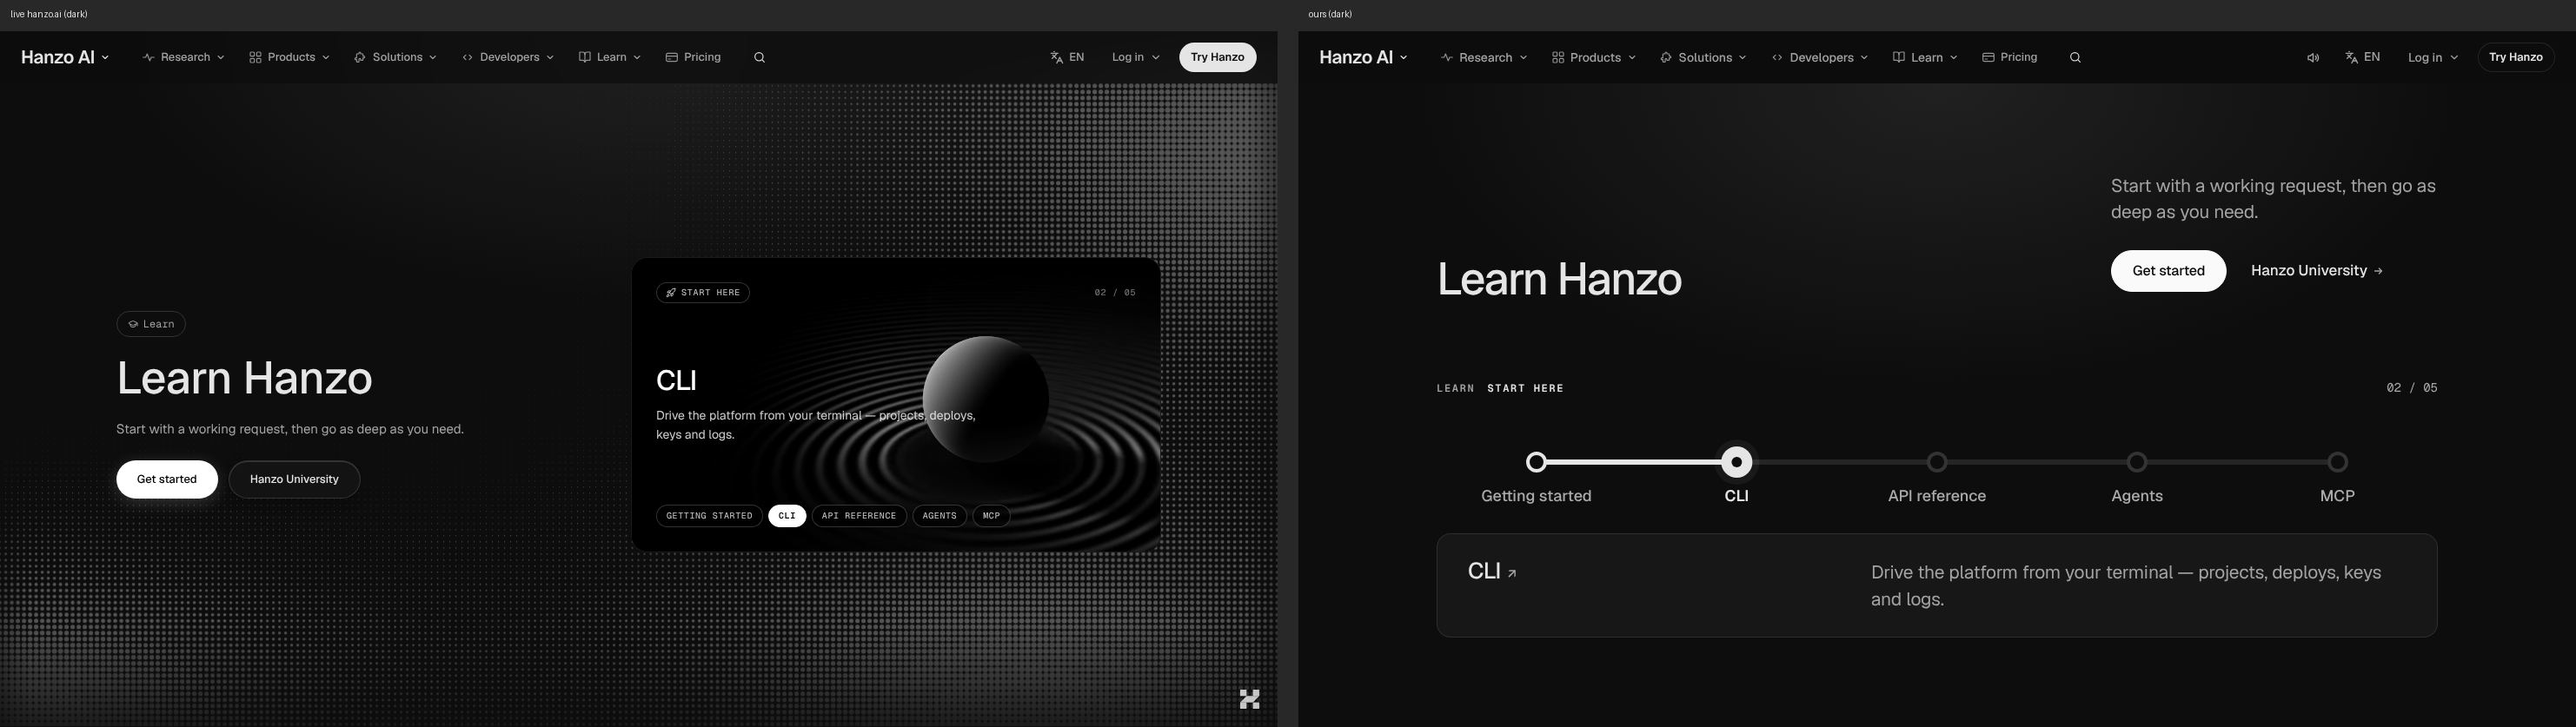
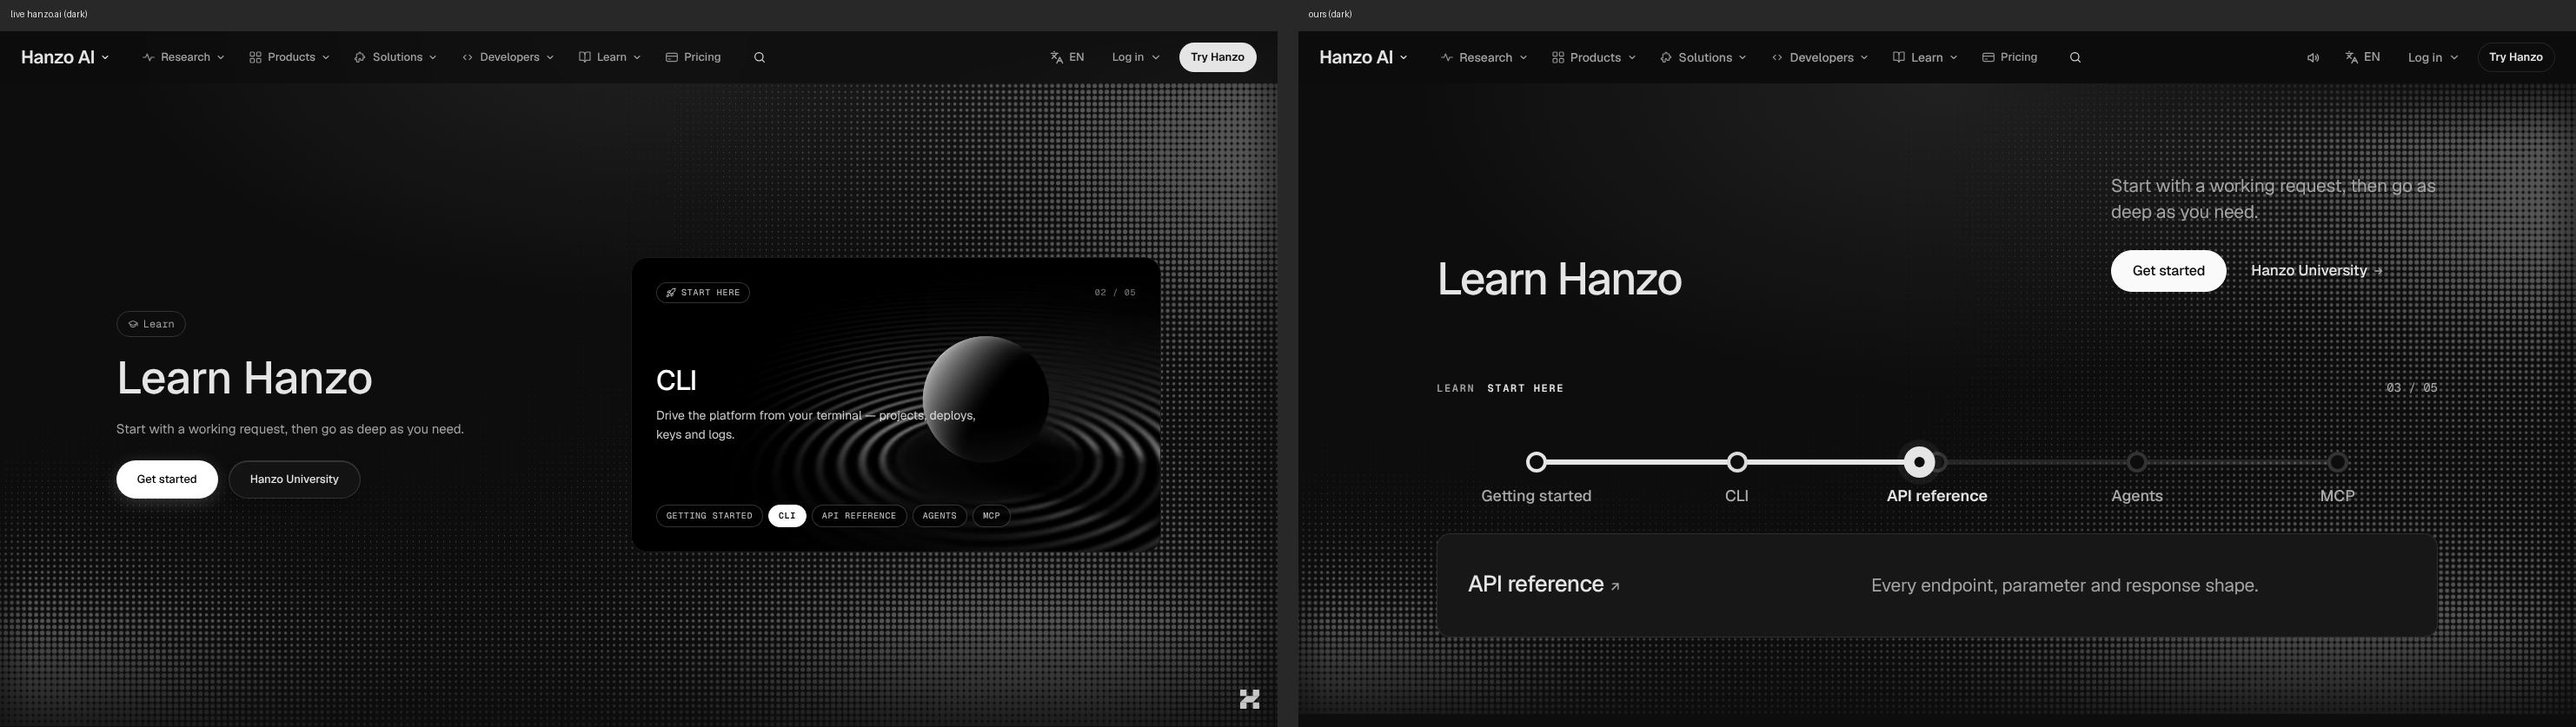
learn: dark mode — live's hero halftone (HeroDither, dark only) under the hero Co-Authored-By: Claude Opus 5.5 <noreply@anthropic.com> Claude-Session: https://claude.ai/code/session_01P5YBdv7StJZXmK5oNtoxtW

Changed region(s): [[0.7139, 0.1243, 1.0, 0.963], [0.4966, 0.7455, 0.6518, 0.963], [0.6518, 0.6213, 0.776, 0.7145]]

diff --git a/components/pages/Learn.css b/components/pages/Learn.css
@@ -317,6 +317,8 @@ html:not(.js) .xlr-tiles { display: none; }
 /* ---------- dark mode (docs/DARK-MODE.md): live hanzo.ai's dark, by role, in Hanzo's own tokens ----------
    page --background with live's hero glow; the map's panel and cards on --card / --secondary; hairlines --border;
    text --foreground, --muted-foreground and --text-tertiary. The dark room (.xlr-think, [data-room=dark]) stands as it is. */
+/* live's hero halftone (HeroDither, dark only) fills the hero */
+html:not(.light) .xlr-hero { position: relative; }
 html:not(.light) .xlr-hero { background: radial-gradient(60% 70% at 50% 0%, rgba(229, 229, 229, .09), transparent 70%); }
 html:not(.light) .xlr-line-tag, html:not(.light) .xlr-guide:hover i { color: var(--foreground); }
 html:not(.light) :is(.xlr-map-k, .xlr-guide i, .xlr-link svg, .xlr-say-k, .xlr-uni-a > i) { color: var(--muted-foreground); }

diff --git a/components/pages/Learn.jsx b/components/pages/Learn.jsx
@@ -19,6 +19,7 @@ import { A, Cta, More, Faq, Film, Img } from '../kit';
 import { NoJs } from '../v2/LineReveal';
 import '../v2/ProgramScale.css';
 import './Learn.css';
+import HeroDither from './HeroDither';
 
 const EASE = [0.16, 1, 0.3, 1];
 const DOCS = 'https://docs.hanzo.ai/docs/';
@@ -123,6 +124,7 @@ const TILES = Array.from({ length: 40 }, (_, i) => ({ '--a': (i % 8) + Math.floo
 function Hero() {
   return (
     <section className="xlr-hero" aria-labelledby="xlr-h1">
+      <HeroDither />
       <div className="xp-wrap xlr-hero-wrap">
         <div className="xp-grid xlr-hero-top">
           <div className="xlr-hero-h">

diff --git a/docs/review/learn.md b/docs/review/learn.md
@@ -2,7 +2,7 @@
 
 Verdict: 7/10
 Ready: 8 Nov, copycheck missing 0 of 43 (live hanzo.ai). The blog post titles (lead, Kai, "Your AI is Planning To Kill You"), the "Read the thinking" titles and the card/row titles are now span leaves instead of <b> (same type, hover underline kept; the Kai title is the link's own text). taste/unique OK; 0 console errors, no overlap at 1470x801 and 375x812.
-Dark: 8 Nov, matches live hanzo.ai in dark side by side (docs/gallery/learn/dark-*.jpg); darkcheck OK, lightcheck OK, copycheck 0. (darkcheck's one remaining item is intended: the map's train, the current stop, is a light fill as live's selected pill. Rules under html:not(.light) in Hanzo's tokens; the blog room ([data-room=dark]) stands as it is. Live's halftone dot field is not drawn: our hero has none in bright mode.)
+Dark: 8 Nov, matches live hanzo.ai in dark side by side (docs/gallery/learn/dark-*.jpg); darkcheck OK, lightcheck OK, copycheck 0. (darkcheck's one remaining item is intended: the map's train, the current stop, is a light fill as live's selected pill. Rules under html:not(.light) in Hanzo's tokens; the blog room ([data-room=dark]) stands as it is. Live's hero halftone is drawn in dark only (shared HeroDither, Hanzo's own Dither), so bright mode is unchanged.)
 First complaint: "The map at the top is lovely, then I scroll and there's a whole screen of nothing, then a row of grey boxes with big numbers in them. That's the lazy look. And it just stops at the questions; where's the ask at the end?"
 
 Walked: 7 Nov 2026 (session clock), dev server, route warmed first. 1470x801 (wheel in 8 steps per screen, dwell ~2 s, frame diffs at rest, video recorded) and 375x812 (isMobile, touch; CDP touch swipes of ~780px, one real screen per step, dwell and frame diffs). Hover with fine pointer emulated via CDP (`(hover: hover)` confirmed true). Clicked and keyed the stations, stepped/dragged/threw the rail, swiped it on phone, paused and resumed both films, hovered/opened FAQ items and deep-linked `#q-how-much-does-it-cost-to-use`. Checked 320 width, 375x667 fold, reduced motion, JS off, CLS, console. `parity.py /learn`: 69/69 text, 26/26 links. `taste.py` on Learn.jsx/.css: OK.
